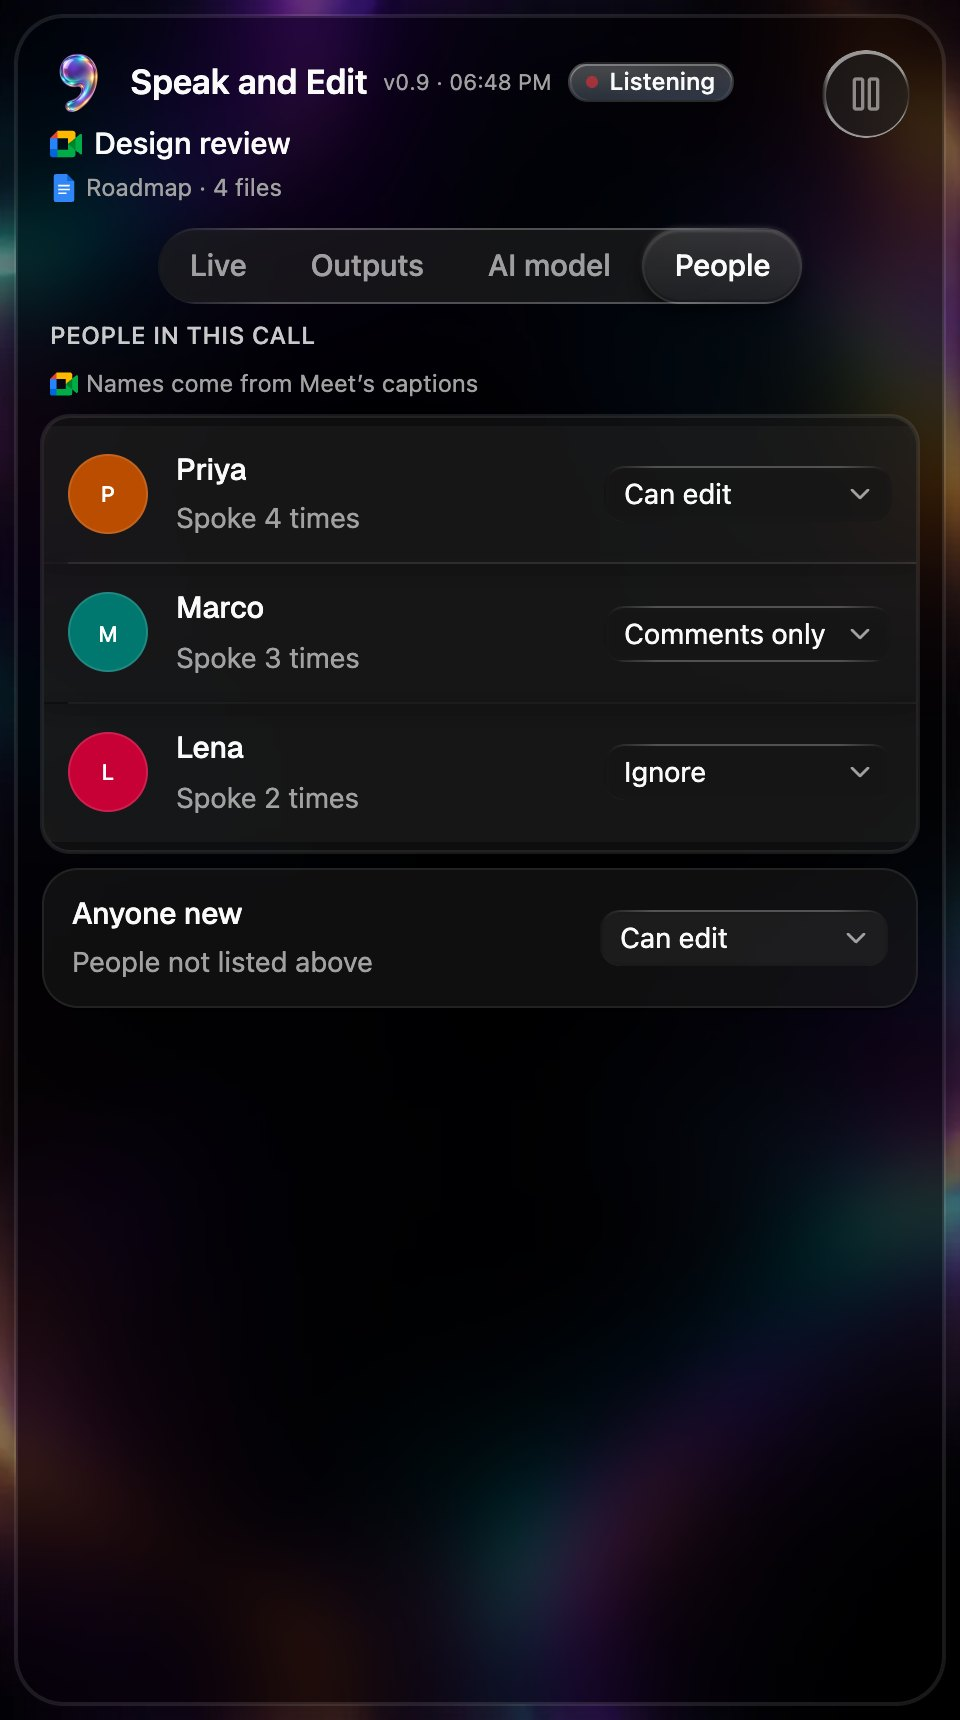
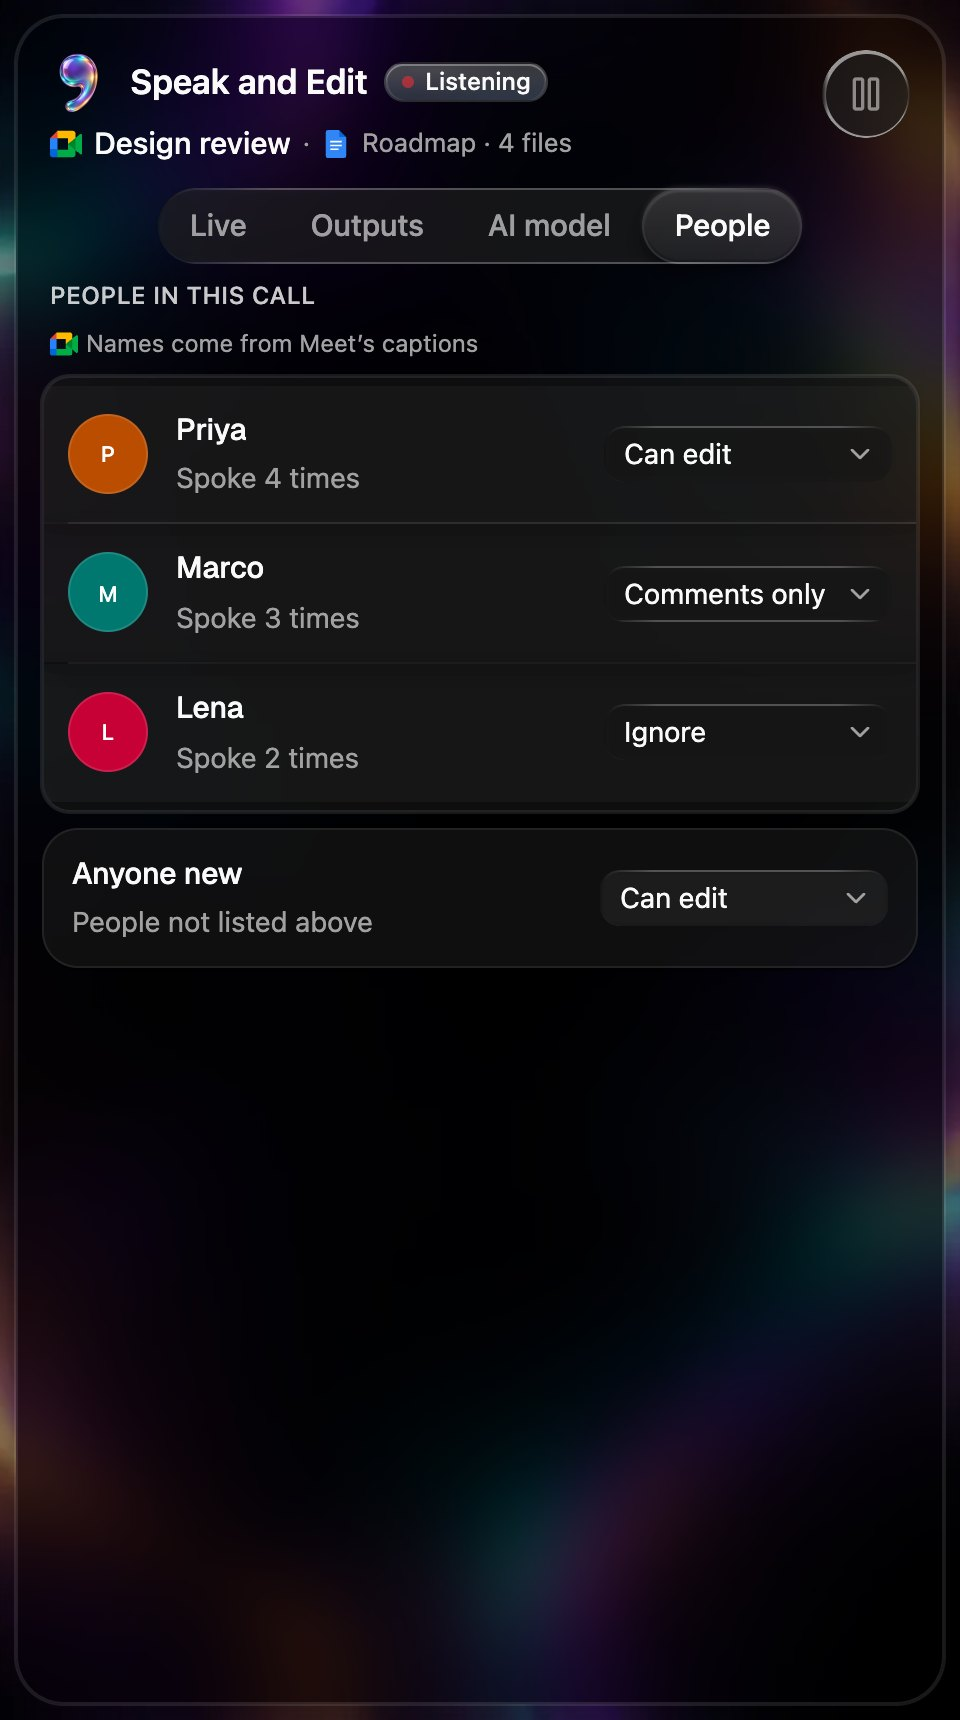
Header: two lines
Name and status on one line; Meet title and working file share the next.
The build stamp moves to the logo's hover tooltip.

diff --git a/src/sidepanel/App.tsx b/src/sidepanel/App.tsx
@@ -42,16 +42,10 @@ const STATUS: Record<string, { label: string; live?: boolean }> = {
   error: { label: "Problem" },
 };
 
-/** "v0.9 · 18:24": the version and when this build was made, so you can tell a reload took. */
-function BuildStamp() {
-  const version = chrome.runtime.getManifest().version.replace(/\.0$/, "");
+/** "v0.9 · 18:24" on the logo's tooltip: the version and build time, so you can tell a reload took. */
+function buildStamp(): string {
   const built = new Date(typeof __SCRIBE_BUILT__ === "string" ? __SCRIBE_BUILT__ : Date.now());
-  const time = built.toLocaleTimeString([], { hour: "2-digit", minute: "2-digit" });
-  return (
-    <span className="font-normal text-[11px] text-muted-foreground tabular-nums" title={`Speak and Edit ${chrome.runtime.getManifest().version}, built ${built.toLocaleString()}`}>
-      v{version} · {time}
-    </span>
-  );
+  return `Speak and Edit v${chrome.runtime.getManifest().version.replace(/\.0$/, "")} · built ${built.toLocaleTimeString([], { hour: "2-digit", minute: "2-digit" })}`;
 }
 
 export function App() {
@@ -150,9 +144,8 @@ export function App() {
           <header className="flex items-start justify-between gap-2 px-4 pt-4">
             <div className="flex min-w-0 flex-col gap-1">
               <div className="flex items-center gap-2 font-semibold text-[17px]">
-                <img alt="" className="size-8 shrink-0" src={logo} />
+                <img alt="" className="size-8 shrink-0" src={logo} title={buildStamp()} />
                 Speak and Edit
-                <BuildStamp />
                 <GlassBadge className="gap-1.5" glassVariant="liquid">
                   <span className={cn("size-1.5 rounded-full", status.live ? "animate-pulse bg-red-500" : "bg-muted-foreground")} />
                   {status.label}
@@ -166,15 +159,14 @@ export function App() {
               </div>
               <div className="flex min-w-0 items-center gap-1.5 font-medium text-[15px]">
                 <Logo className="size-4" name="meet" />
-                <span className="truncate">{meet?.title ?? "Google Meet"}</span>
-              </div>
-              <div className="flex flex-wrap items-center gap-x-2 text-muted-foreground text-xs">
+                <span className="min-w-0 shrink truncate">{meet?.title ?? "Google Meet"}</span>
                 {(() => {
                   const shown = focus ?? (settings.files.length === 1 ? settings.files[0]! : null);
                   const name = (id: string, fallback: string) => state.files[id]?.title ?? fallback;
                   return (
-                    <span className="inline-flex min-w-0 items-center gap-1">
-                      {shown ? <Logo className="size-3.5" name={FILE_LOGO[shown.kind]} /> : <FileTextIcon className="size-3" />}
+                    <span className="inline-flex min-w-0 shrink items-center gap-1.5 font-normal text-muted-foreground text-[13px]">
+                      <span aria-hidden="true">·</span>
+                      {shown ? <Logo className="size-3.5" name={FILE_LOGO[shown.kind]} /> : <FileTextIcon className="size-3.5" />}
                       <span className="truncate">
                         {settings.files.length === 0
                           ? "No file connected"

diff --git a/README.md b/README.md
@@ -25,7 +25,7 @@ Status: v0.9, in development. Unit-tested, the prompts are checked against a rea
 - **Transcript is Record all's:** Smart mode and requests that name no section never write into it. Notes with no section go at the end of the doc, before Transcript.
 - **Pausing:** anything said while a pause request was still being worked out is dropped too, as if it was said while paused.
 - **Typing:** Scribe is voice-first. The text box stays hidden behind a keyboard button at the bottom right, for when Meet mishears or you can't speak aloud. Sending, ✕ or Esc closes it.
-- **Version:** the header shows the version and build time ("v0.8 · 18:24"), so you can see a reload took.
+- **Version:** hover the logo to see the version and build time ("v0.9 · 18:24"), so you can tell a reload took.
 - **Obsidian** (v0.7): Outputs › Obsidian. Choose your vault folder once, then "New note" makes a meeting note in `Meetings/`, or add existing notes. Scribe adds under headings, changes text, comments as `> [!comment]` callouts, keeps credit hidden as `%% … %%`, and Record all writes the note's Transcript. Files stay on your computer; nothing to sign in to.
 - **Overleaf** (v0.8): Outputs › Overleaf lists the projects open in this Chrome; **Add** asks Chrome once for overleaf.com. Scribe edits the `.tex` file open in the project's tab, through Overleaf's own editor, so Overleaf saves it and co-authors see it live. It adds under `\section{…}` (as `\item` lines when the section ends in a list), changes text, and comments and credits on `% [Scribe] …` lines, which are in the source and never in the PDF. What people say is made safe for LaTeX (`30%` becomes `30\%`; `& $ # _ { }` likewise), and "change 30% to 35%" finds `30\%`. If the tab is closed, Scribe opens it in the background. Screenshots go in as a `% [Scribe]` line with the Drive link. Track changes is a paid Overleaf feature, so Ask before writing holds changes in the panel. Overleaf's real comments aren't used: its editor gives no reliable way in. The `scripting` permission is only used on Overleaf tabs.
 - **Use your own API key** (v0.6): collapsed at the bottom of AI model. OpenRouter Connect, or keys for Anthropic (the only allowed way to use Claude), OpenAI, Gemini and Groq. Each service's permission is asked for only when you first use it.
